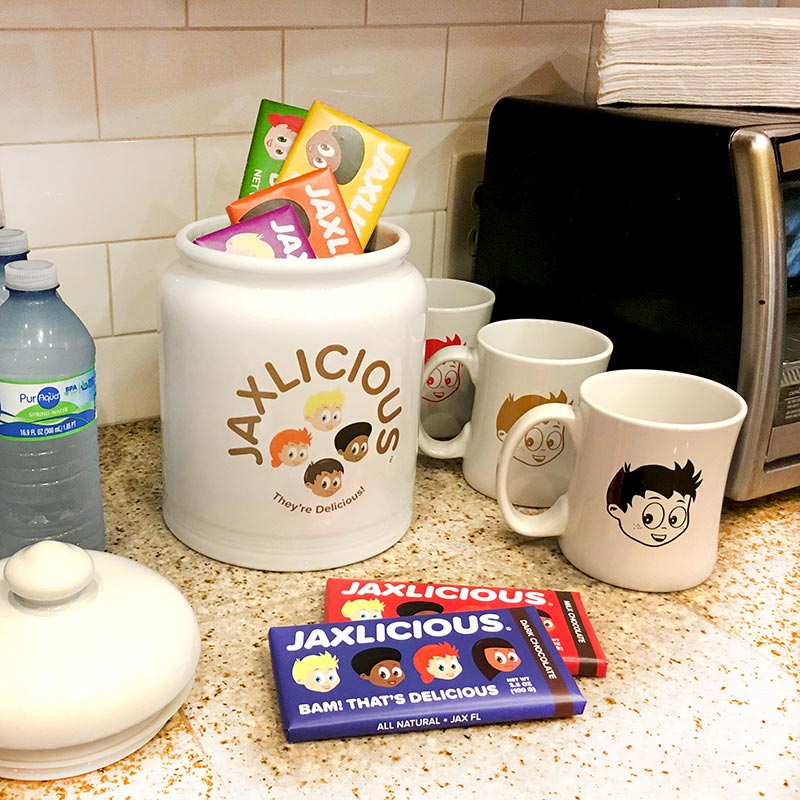
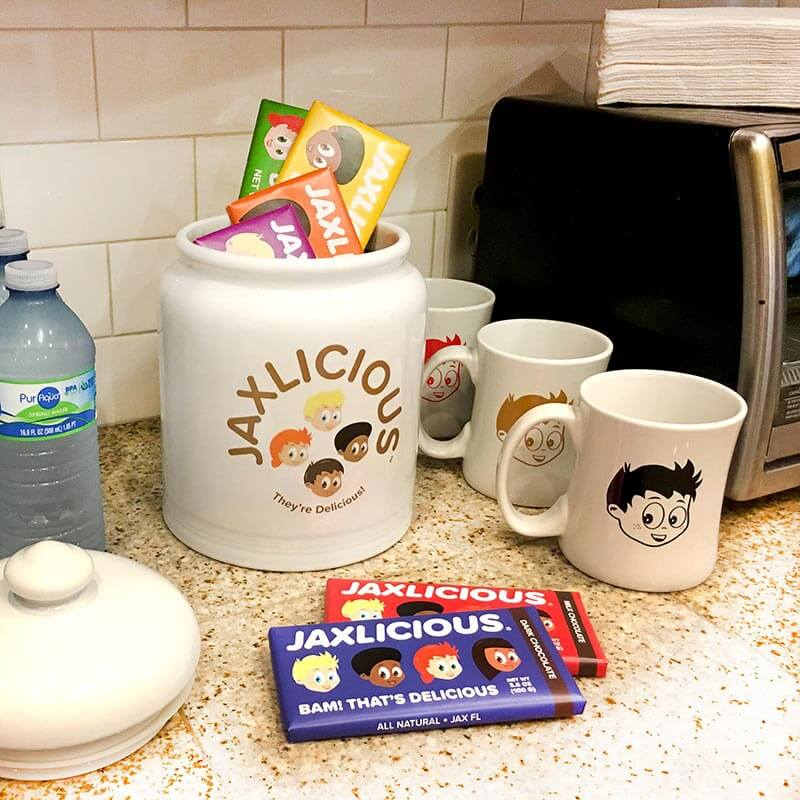
IMAGES OPTIMIZATION: Processed MORE images: 1) Bulk Purchases Images: used photoshop to 'save as web' then ran them through 'tinypng.com'

diff --git a/user/pages/section-products-other/modules.md b/user/pages/section-products-other/modules.md
@@ -27,7 +27,7 @@ module:
                 module__admin_title_child: 'Personal Gifts'
                 module_type: module__text_image
                 text_image__title: 'Personal Gifts'
-                text_image__image: chocolate-bars-jaxlicious-personal-gift-set-white-tissue-paper.png
+                text_image__image: chocolate-bars-jaxlicious-personal-gift-set-white-tissue-paper.jpg
                 text_image__alt: '6 Jaxlicious chocolate bars displayed in red tissue paper and ribbon'
                 text_image__textarea: ''
                 module_styles__select_child:
@@ -49,7 +49,7 @@ module:
                 module__admin_title_child: 'Employee Gifts'
                 module_type: module__text_image
                 text_image__title: 'Employee Gifts'
-                text_image__image: chocolate-bars-jaxlicious-gift-bag-red.png
+                text_image__image: chocolate-bars-jaxlicious-gift-bag-red.jpg
                 text_image__textarea: ''
                 module_styles__select_child:
                     - p-mb-75
@@ -59,7 +59,7 @@ module:
                 module__admin_title_child: Wholesale
                 module_type: module__text_image
                 text_image__title: Wholesale
-                text_image__image: chocolate-bars-jaxlicious-retail-display.png
+                text_image__image: chocolate-bars-jaxlicious-retail-display.jpg
                 text_image__alt: 'Jaxlicious chocolate bars retail display'
                 text_image__textarea: ''
                 module_styles__select_child:
